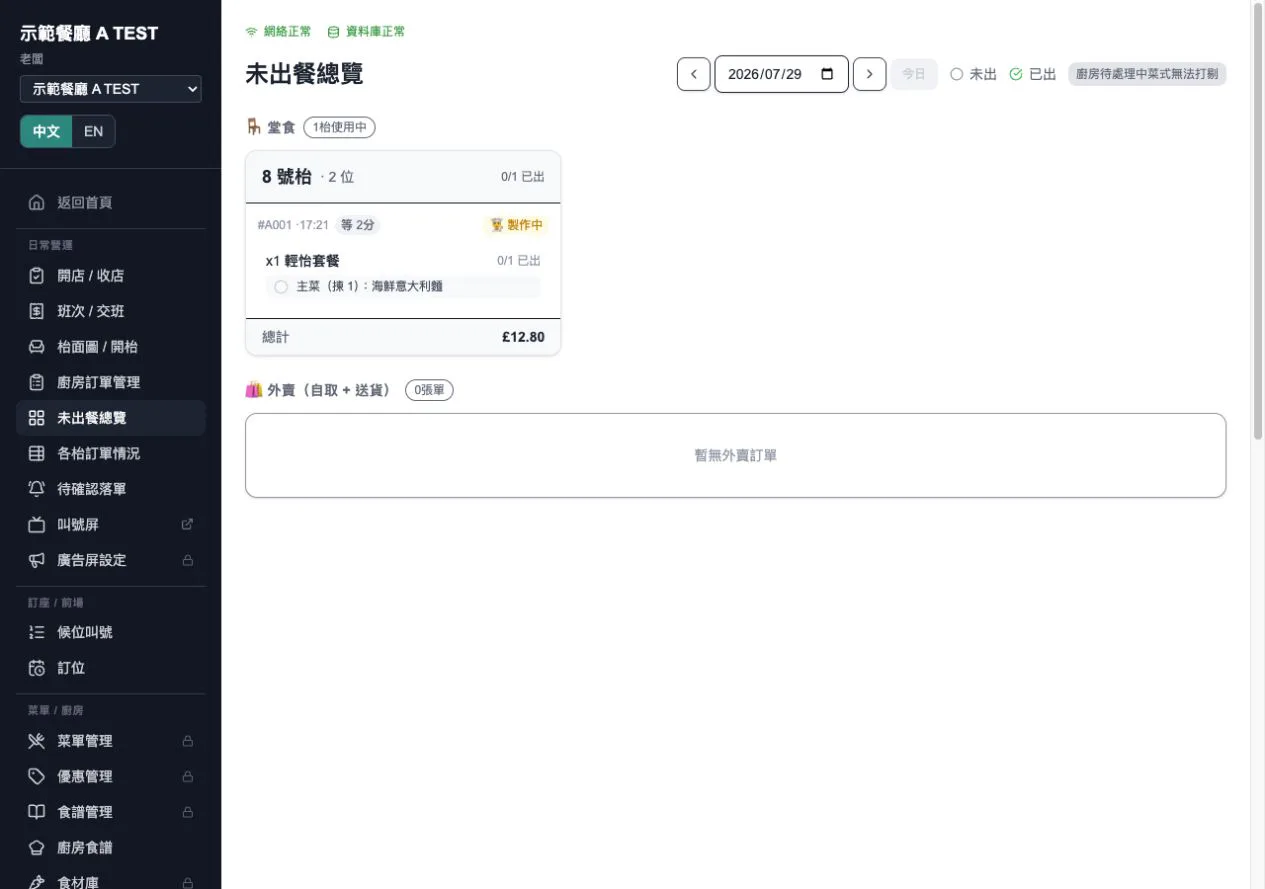
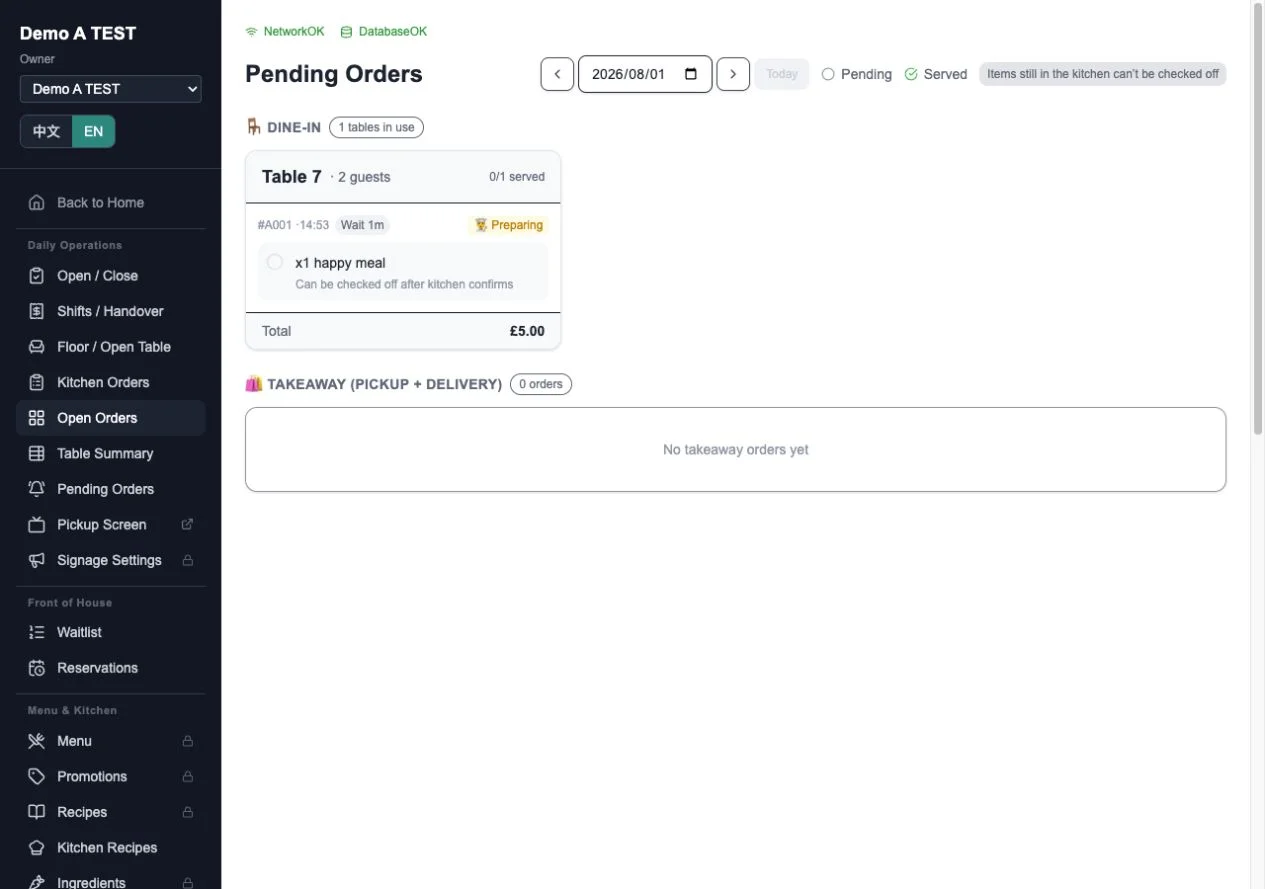
assets: unify the POS demo journey in English

diff --git a/docs/pos-demo-screenshot-register.md b/docs/pos-demo-screenshot-register.md
@@ -1,36 +1,50 @@
 # POS Demo Screenshot Register
 
-Capture date: 2026-07-29 (UK time)
+Capture date: 2026-08-01 (UK time)
 
-Journey: a newly created dine-in order in `示範餐廳 A TEST`, table 8, party of 2,
-using the Demo-only order `260729-01-A001`. The order contained one Light Set
-with Seafood Spaghetti for £12.80. It was moved from pending to preparing,
-completed, and closed with a Demo cash payment. No existing takeaway or delivery
-order was used.
+Journey: one newly created dine-in order in the fictional Demo restaurant
+`Demo A TEST`, table 7, party of 2. Table 7 was visibly `Not open` before the
+session and had no unpaid order; table 8 was deliberately avoided because it
+already had an order. The Demo-only order was `#26080101A001` (admin code
+`260801-01-A001`, short code `#A001`) and contained one `Happy Meal` at £5.00.
+It moved from pending to preparing, was completed, paid with Demo cash for
+£5.00, and table 7 was confirmed `Not open` afterwards.
 
-| Asset | Source environment | Demo state | Language | Viewport | Masking result | Fictional data checked | Private data checked | Approved |
-|---|---|---|---|---|---|---|---|---|
-| `order-entry.webp` | Demo account / non-production | Staff dine-in order entry, table 8 | EN | Tablet override 1280×900; asset 1280×900 | None required | Yes | Yes | Yes |
-| `kitchen-order.webp` | Demo account / non-production | Dine-in-only kitchen filter, new order pending | ZH-Hant | Tablet override 1280×900; asset 1265×889 | None required | Yes | Yes | Yes |
-| `floor-progress.webp` | Demo account / non-production | New table 8 order preparing, no takeaway rows | ZH-Hant | Tablet override 1280×900; asset 1265×889 | None required | Yes | Yes | Yes |
-| `checkout-report.webp` | Demo account / non-production | Checkout summary before Demo cash payment | EN | Tablet override 1280×900; asset 1280×900 | None required | Yes | Yes | Yes |
+| Asset | Source environment | Demo state | Language | Viewport and asset | File size | Masking result | Fictional data checked | Private data checked | Approved |
+|---|---|---|---|---|---:|---|---|---|---|
+| `order-entry.webp` | Demo account / non-production | Staff dine-in cart, table 7, `Happy Meal` ×1, £5.00 total | EN | 1280×900 viewport; intentional product-area clip 1280×520 | 27,974 bytes | None; clean product-area capture | Yes | Yes | Yes |
+| `kitchen-order.webp` | Demo account / non-production | Dine-in filter, new `#A001` order pending only | EN | 1280×900 viewport; asset 1265×889 | 34,746 bytes | None required | Yes | Yes | Yes |
+| `floor-progress.webp` | Demo account / non-production | Open Orders, table 7 preparing only; takeaway count 0 | EN | 1280×900 viewport; asset 1265×889 | 34,188 bytes | None required | Yes | Yes | Yes |
+| `checkout-report.webp` | Demo account / non-production | Table 7 filter, checkout before Demo cash payment; cash/card choices visible | EN | 1280×900 viewport; asset 1280×900 | 40,808 bytes | None required | Yes | Yes | Yes |
 
-## Privacy checks
+4 source stages = 4 English assets, zero gap.
 
-- The restaurant name is explicitly fictional: `示範餐廳 A TEST`.
-- Table number, party size, menu selection, price, order code, and short checkout
-  reference were generated inside the Demo environment for this capture journey.
+## Per-asset privacy and readability gate
+
+| Asset | English UI, restaurant, item and status | Existing order rows absent | Name, email, phone and address absent | Token, API key and payment credential absent | Browser chrome and notifications absent | Text readable at original resolution |
+|---|---|---|---|---|---|---|
+| `order-entry.webp` | Yes | Yes | Yes | Yes | Yes | Yes |
+| `kitchen-order.webp` | Yes | Yes | Yes | Yes | Yes | Yes |
+| `floor-progress.webp` | Yes | Yes | Yes | Yes | Yes | Yes |
+| `checkout-report.webp` | Yes | Yes | Yes | Yes | Yes | Yes |
+
+## Capture decisions
+
+- `order-entry.webp` uses a clean 1280×520 product-area clip from the 1280×900
+  viewport so the pre-existing staff unpaid section is outside the capture. The
+  product UI was not altered, covered, blurred, replaced or fabricated.
+- Kitchen was filtered to **Dine-in** and captured while the new order was the
+  only pending dine-in card.
+- Open Orders showed only table 7 preparing; the takeaway section showed
+  `0 orders` and no takeaway row or address.
+- Checkout remained filtered to table 7. The only visible order row was the new
+  Demo order; no pre-existing delivery row or address was exposed. Card ref
+  `434` was generated inside the Demo checkout and is not a payment credential.
+- The active product language was English throughout. The admin sidebar's
+  language switch still shows `中文` as the name of the alternative language;
+  restaurant, menu, order and status content remain English.
 - No customer or staff name, email, phone number, postal address, account ID,
-  URL token, API key, payment token, real card data, or production analytics is
+  URL token, API key, payment token, real card data or production analytics is
   visible.
 - Screenshots contain product UI only. Browser chrome, password-manager prompts,
-  notifications, bookmarks, and unrelated tabs are absent.
-- No blur, cover, replacement text, or fabricated UI was used.
-
-## Rejected capture notes
-
-- The public takeaway flow was rejected before capture because it contains
-  customer contact/address fields and was not needed for a dine-in journey.
-- The unfiltered staff unpaid list and unfiltered kitchen board were rejected
-  because they showed pre-existing Demo delivery orders. Final captures use the
-  table-8 or dine-in filter and show only the newly created Demo order.
+  notifications, bookmarks and unrelated tabs are absent.
